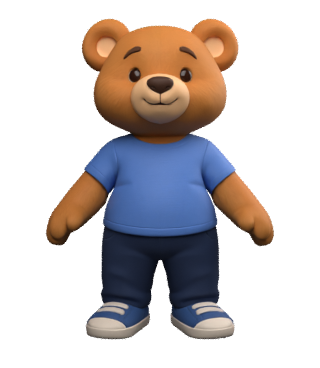
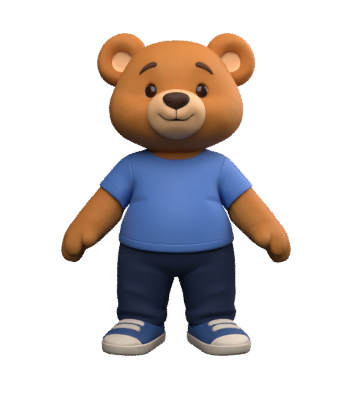
feat: publish celebration-v6 bear companion model to Vercel Blob
Production and preview builds need an immutable HTTPS URL for the 17-clip
Bear_fixed_outfit GLB without bundling the 3.55 MB binary into the git
repository or initial PWA precache. Publishing the verified celebration-v6
model to the public Vercel Blob store and enabling bear-v1.json activates the
companion across production and preview deployments while keeping test-mode
fixture isolation intact.

Changed region(s): [[0.125, 0.0299, 0.875, 0.9266], [0.3125, 0.2989, 0.3438, 0.3288]]

diff --git a/src/avatar/companionConfig.test.ts b/src/avatar/companionConfig.test.ts
@@ -12,8 +12,11 @@ const published = {
 afterEach(() => { vi.unstubAllGlobals(); vi.unstubAllEnvs(); });
 
 describe('companion publication configuration', () => {
-  it('keeps the unpublished manifest disabled', () => {
-    expect(resolveCompanionConfig(manifest)).toBeNull();
+  it('resolves the published manifest', () => {
+    expect(resolveCompanionConfig(manifest)).toEqual({
+      id: 'bear-v1', modelUrl: manifest.modelUrl,
+      animationName: 'celebrate', durationMs: 1400,
+    });
   });
 
   it('resolves accepted and complete publication metadata', () => {
@@ -57,21 +60,24 @@ describe('companion publication configuration', () => {
   it.each(['production', 'development'])('ignores fixture globals in %s', mode => {
     vi.stubEnv('MODE', mode);
     vi.stubGlobal('window', { __E2E__: { companionFixture: true } });
-    expect(getCompanionConfig()).toBeNull();
+    expect(getCompanionConfig()?.modelUrl).toBe(manifest.modelUrl);
   });
 
   it('shows the local bear in development only when asked', () => {
     vi.stubEnv('MODE', 'development');
     vi.stubEnv('VITE_AVATAR_LOCAL_COMPANION', 'false');
-    expect(getCompanionConfig()).toBeNull();
+    expect(getCompanionConfig()?.modelUrl).toBe(manifest.modelUrl);
     vi.stubEnv('VITE_AVATAR_LOCAL_COMPANION', 'true');
     expect(getCompanionConfig()?.modelUrl).toBe('/__avatar_fixture/bear-v1.glb');
   });
 
-  it.each(['production', 'test'])('ignores the local bear switch in %s', mode => {
+  it.each([
+    ['production', manifest.modelUrl],
+    ['test', undefined],
+  ])('ignores the local bear switch in %s', (mode, expectedUrl) => {
     vi.stubEnv('MODE', mode);
     vi.stubEnv('VITE_AVATAR_LOCAL_COMPANION', 'true');
     vi.stubGlobal('window', {});
-    expect(getCompanionConfig()).toBeNull();
+    expect(getCompanionConfig()?.modelUrl).toBe(expectedUrl);
   });
 });

diff --git a/ROADMAP.md b/ROADMAP.md
@@ -307,7 +307,7 @@ gates and 26 focused browser checks passed. See the development-efficiency hando
 - [x] Complete/review 5-credit remesh `01a15fc7-1930-704d-b191-ce67f048917b` and 5-credit rig `01a15fca-8ac6-74ad-a7c0-acd3ca841bab`. Expressive v4 has 51,311 triangles, 1,910,001 gzip bytes, zero validator errors/warnings, 169-pose native/runtime parity and arm-clearance proof, and 30 browser views. Session spend 40/500 credits, 460 remain; observed balance 2,060. Art and five-size actual-clock review pass; final forced integration passed552 browser cases and600 units.
 - [x] Record exact animated-revision art approval: user accepted celebration-v4, SHA598ac628…6fc3, after actual in-game preview.
 - [x] Author and integrate multi-clip `celebration-v6` bear companion animations (`17` clips: `celebrate`, `wave`, `clap`, `jump`, `finale`, `idle`, `search`, `think`, `listen`, `encourage`, `shrug`, `flex`, `bow`, `march`, `wiggle`, `peekaboo`, `stretch`) and `6` bone-parented 3D accessories (`searchGlass`, `thinkBulb`, `flexMask`, `bowHat`, `marchFlag`, `wiggleLeftMaraca`/`wiggleRightMaraca` in `src/avatar/companionAccessories.ts` and `tools/blender/catalog/bear_accessories.py`) after comparing Meshy Animation API presets (`12 / 200` pre-approved credits spent across `action_id` `28`, `59`, `22`, `466`), Blender retargeted cleanup, and posed-space 3-axis Blender authoring (`rotate_world` / `rotate_local` in `bear_companion_common.py`; `0` new `arm-torso-leg` and `0` new `arm-head` contacts across `4,121` 120Hz poses, `28.02 µm` native-runtime parity, `2.078 MB` gzip, and deterministic per-round/session-complete clip cycling in `companionCelebration.ts`).
-- [ ] Deferred by user: private source backup and public model publication. User chose “Finish locally for now”; current models remain local-only and product manifest stays disabled. Until then `VITE_AVATAR_LOCAL_COMPANION="true"` in `.env.development.local` shows the approved bear on `npm run dev` only, served from this checkout and checked against the asset manifest (2026-11-05).
[1 lines of base64/hex data omitted]
 - [x] Research authoring against primary documentation, retain rejected measured revisions, and improve the shared Blender skill with actual motion/export/coverage lessons.
 - [x] Consolidate reusable 3D lessons into harness-neutral authoring guidance and canonical Blender/Meshy/browser skills, with Claude/Cursor adapters and scenario-based discovery checks (2026-10-22).
 - [x] Implement guarded bear integration across all 11 games through shared success feedback, including the last correct answer, with preserved audio/progression, reduced-motion stills and optional-renderer fallback. Historical head35 integration passed548 browser cases and495 units; those results do not prove the Oct21 rebuilt asset. Product activation still requires exact art acceptance, fresh asset-dependent proof and publication above. Dressing UI, more outfits and parent selfies follow separately.
